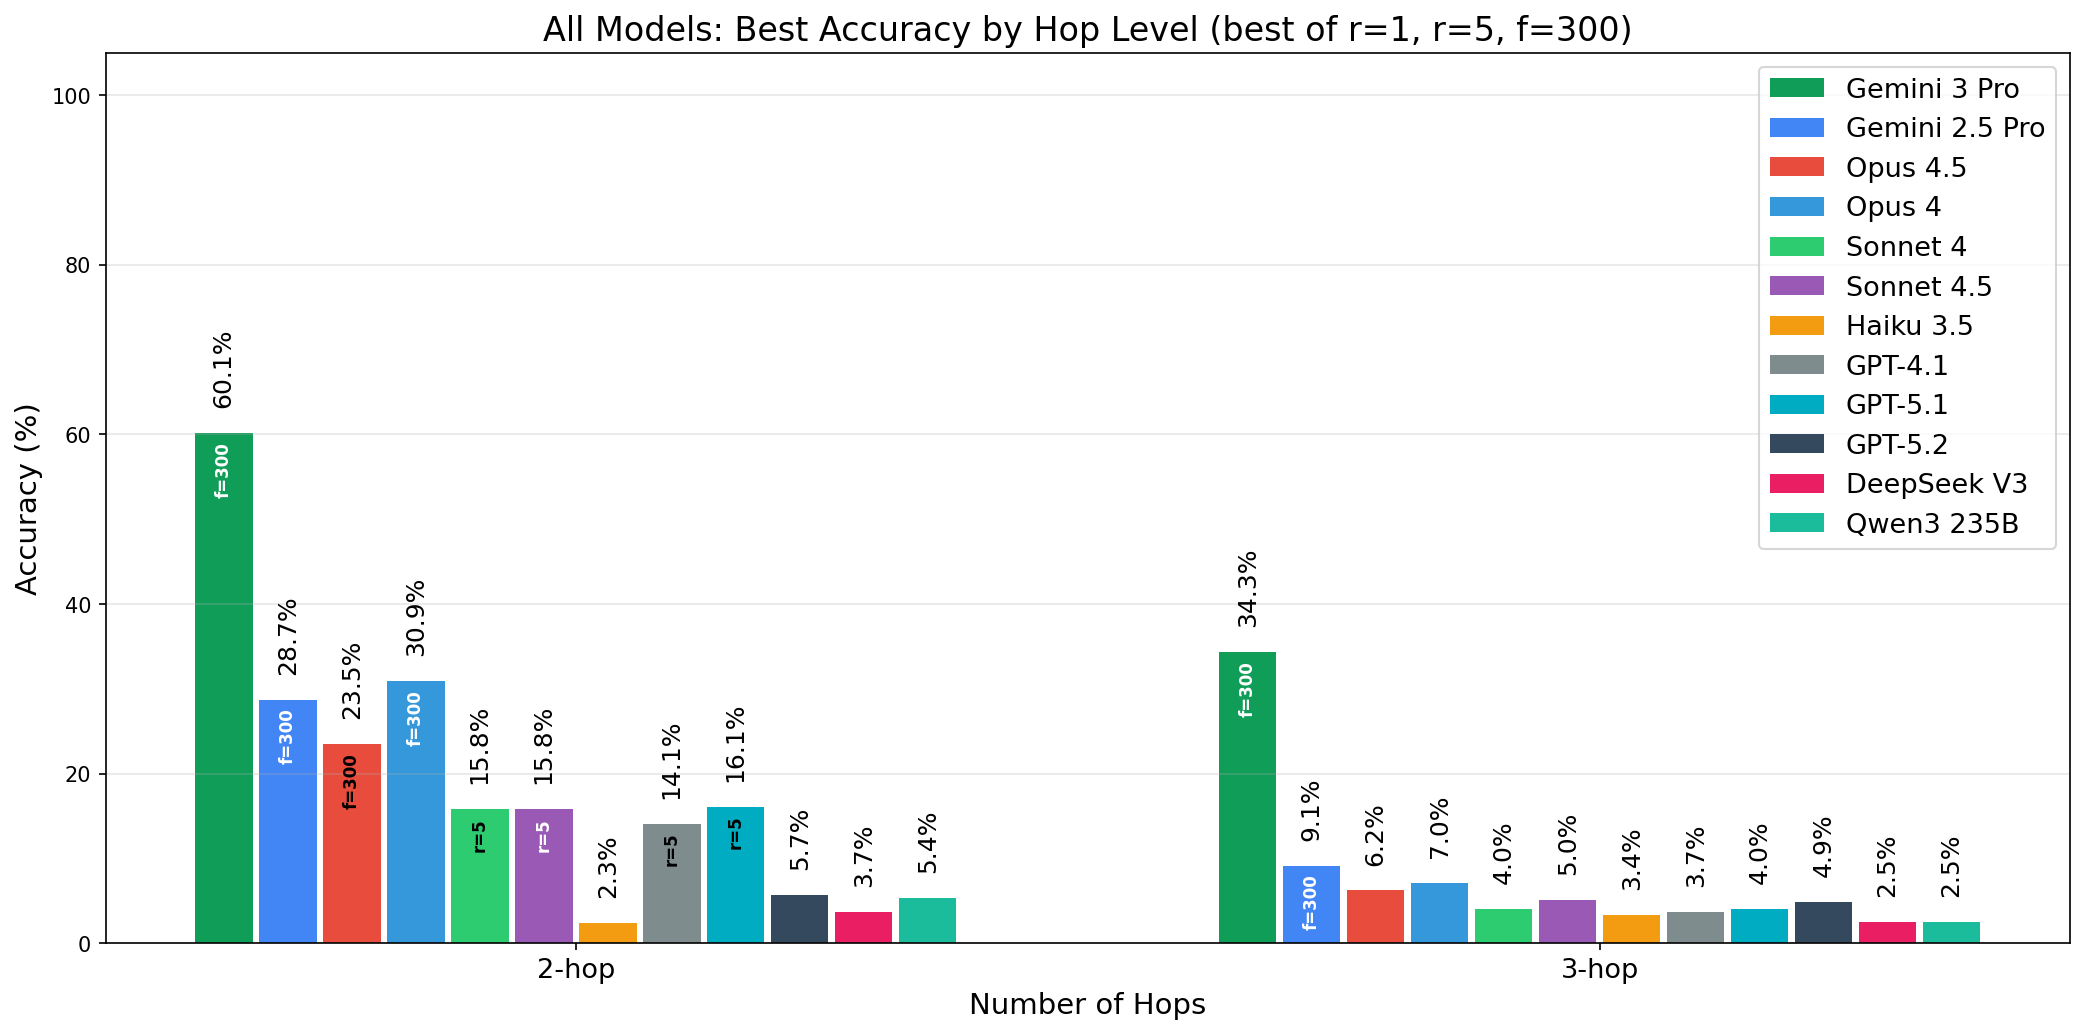
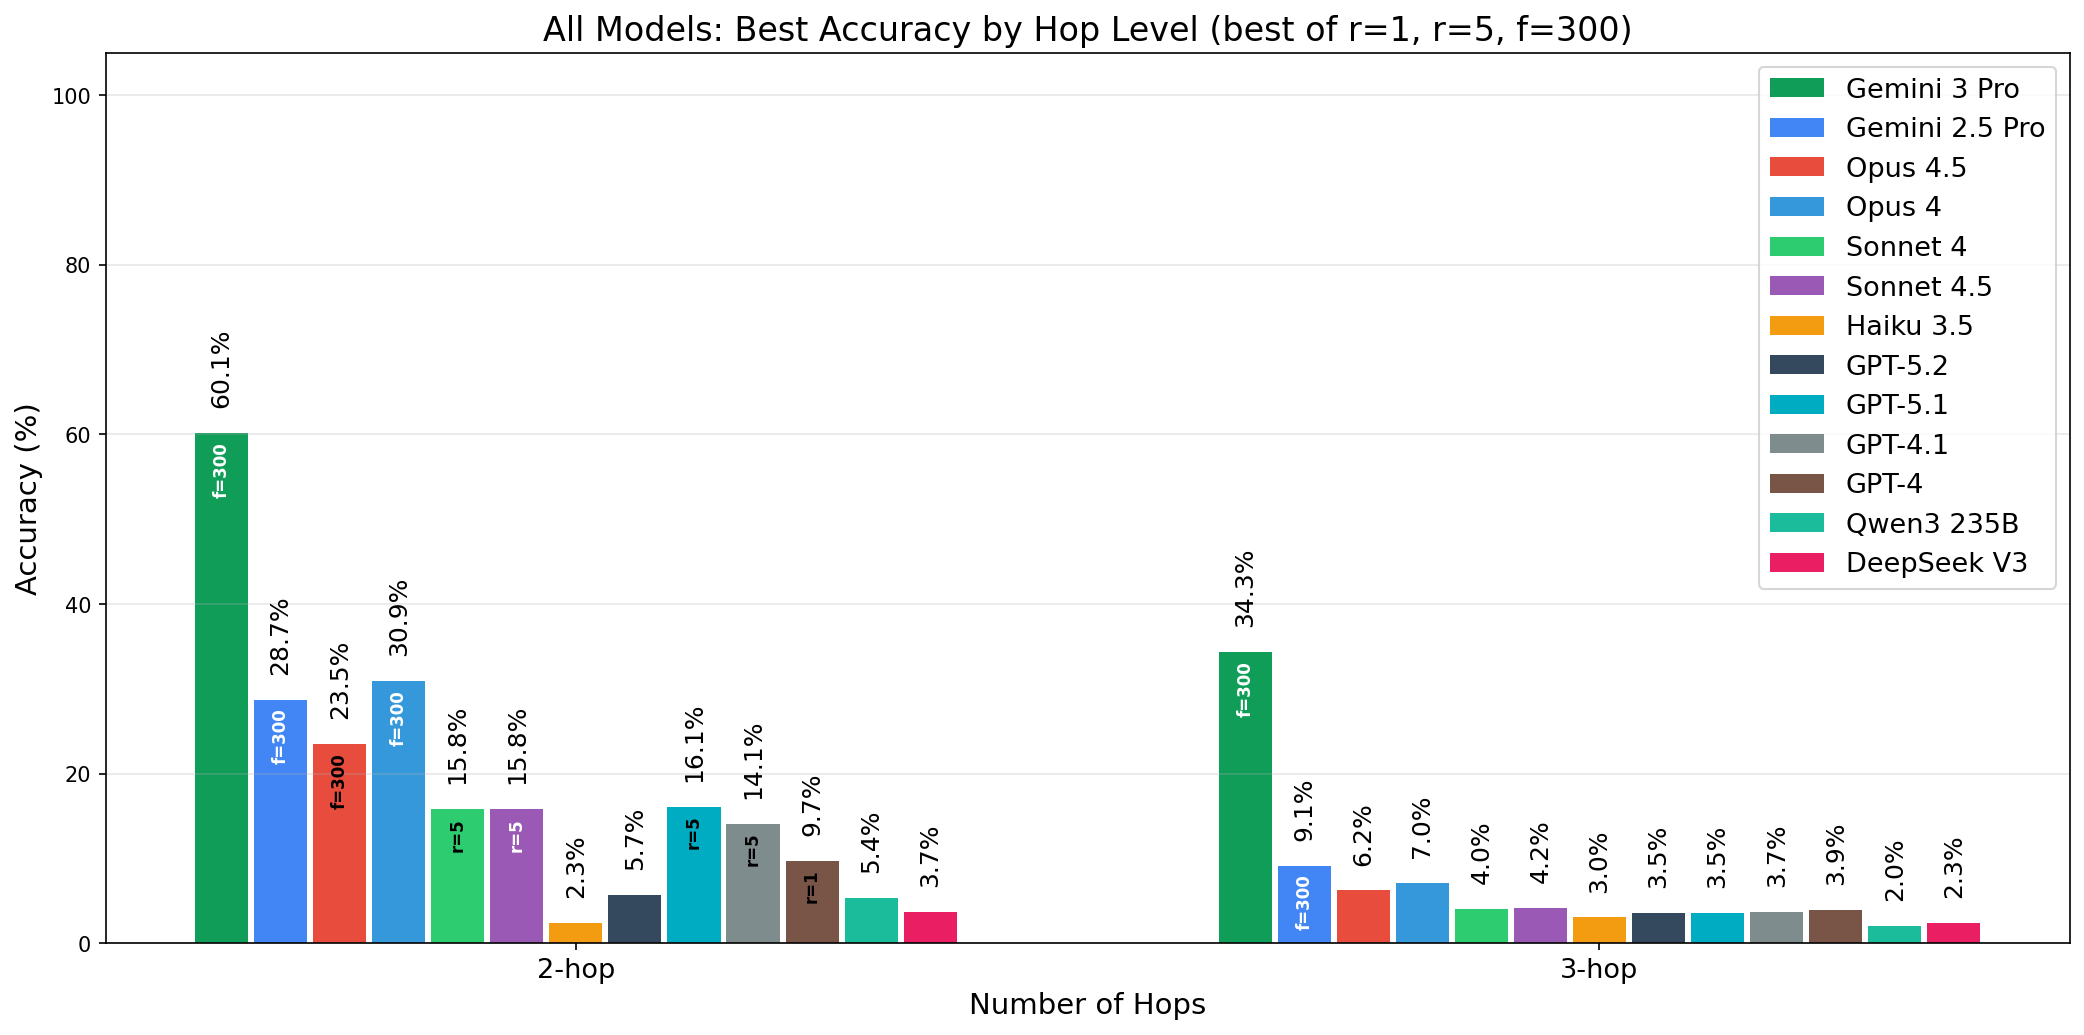
gpt-4

diff --git a/analyze_results.py b/analyze_results.py
@@ -87,10 +87,11 @@ MODEL_NAMES = {
     "claude-sonnet-4-5-20250929": "Sonnet 4.5",
     "claude-3-5-haiku-20241022": "Haiku 3.5",
     "qwen/qwen3-235b-a22b-2507": "Qwen3 235B",
-    "gpt-4.1-2025-04-14": "GPT-4.1",
-    "gpt-5.1-2025-11-13": "GPT-5.1",
-    "gpt-5.2-2025-12-11": "GPT-5.2",
     "deepseek/deepseek-chat-v3-0324": "DeepSeek V3",
+    "gpt-5.2-2025-12-11": "GPT-5.2",
+    "gpt-5.1-2025-11-13": "GPT-5.1",
+    "gpt-4.1-2025-04-14": "GPT-4.1",
+    "gpt-4-0314": "GPT-4",
     "google/gemini-2.5-pro": "Gemini 2.5 Pro",
     "google/gemini-3-pro-preview": "Gemini 3 Pro",
 }
@@ -103,10 +104,11 @@ MODEL_SHORTHAND = {
     "Sonnet 4.5": "sonnet-4-5",
     "Haiku 3.5": "haiku-3-5",
     "Qwen3 235B": "qwen3-235b",
-    "GPT-4.1": "gpt-4.1",
-    "GPT-5.1": "gpt-5.1",
-    "GPT-5.2": "gpt-5.2",
     "DeepSeek V3": "deepseek-v3",
+    "GPT-5.2": "gpt-5.2",
+    "GPT-5.1": "gpt-5.1",
+    "GPT-4.1": "gpt-4.1",
+    "GPT-4": "gpt-4",
     "Gemini 2.5 Pro": "gemini-2.5-pro",
     "Gemini 3 Pro": "gemini-3-pro",
 }
@@ -118,10 +120,11 @@ MODEL_COLORS = {
     "Sonnet 4.5": "#9B59B6",
     "Haiku 3.5": "#F39C12",
     "Qwen3 235B": "#1ABC9C",
-    "GPT-4.1": "#7F8C8D",
-    "GPT-5.1": "#00ACC1",
-    "GPT-5.2": "#34495E",
     "DeepSeek V3": "#E91E63",
+    "GPT-5.2": "#34495E",
+    "GPT-5.1": "#00ACC1",
+    "GPT-4.1": "#7F8C8D",
+    "GPT-4": "#795548",
     "Gemini 2.5 Pro": "#4285F4",
     "Gemini 3 Pro": "#0F9D58",
 }
@@ -1224,7 +1227,7 @@ def plot_mapping_comparison():
 EXTENDED_PLOT_MODEL_ORDER = [
     "Gemini 3 Pro", "Gemini 2.5 Pro",
     "Opus 4.5", "Opus 4", "Sonnet 4", "Sonnet 4.5", "Haiku 3.5",
-    "GPT-4.1", "GPT-5.1", "GPT-5.2", "DeepSeek V3", "Qwen3 235B",
+    "GPT-5.2", "GPT-5.1", "GPT-4.1", "GPT-4", "Qwen3 235B", "DeepSeek V3",
 ]
 
 
@@ -1281,21 +1284,26 @@ def plot_all_models_2_3_hop():
         if not configs:
             continue
 
-        # For each hop, find the best accuracy across configs
+        # Find the best config based on 2-hop accuracy, then use it for both hops
+        best_acc_2hop = -1
+        best_config_name = None
+        best_config_hop_stats = None
+        for config_name, hop_stats in configs:
+            stats_2hop = hop_stats.get("2", {})
+            if stats_2hop:
+                acc = stats_2hop.get("correct", 0) / stats_2hop.get("total", 1)
+                if acc > best_acc_2hop:
+                    best_acc_2hop = acc
+                    best_config_name = config_name
+                    best_config_hop_stats = hop_stats
+
+        # Use the best config's stats for all hops
         best_hop_stats = {}
         best_configs = {}
         for h in hops:
-            best_acc = -1
-            best_config_name = None
-            for config_name, hop_stats in configs:
-                stats_h = hop_stats.get(str(h), {})
-                if stats_h:
-                    acc = stats_h.get("correct", 0) / stats_h.get("total", 1)
-                    if acc > best_acc:
-                        best_acc = acc
-                        best_hop_stats[str(h)] = stats_h
-                        best_config_name = config_name
-            if str(h) not in best_hop_stats:
+            if best_config_hop_stats:
+                best_hop_stats[str(h)] = best_config_hop_stats.get(str(h), {})
+            else:
                 best_hop_stats[str(h)] = {}
             best_configs[h] = best_config_name
 

diff --git a/run_all_evals.py b/run_all_evals.py
@@ -9,7 +9,7 @@ import os
 from datetime import datetime
 
 # Models to evaluate
-MODELS = ["opus-4-5", "opus-4", "sonnet-4", "sonnet-4-5", "haiku-3-5", "qwen3-235b", "gpt-4.1", "gpt-5.1", "gpt-5.2", "deepseek-v3"]
+MODELS = ["opus-4-5", "opus-4", "sonnet-4", "sonnet-4-5", "haiku-3-5", "qwen3-235b", "gpt-4", "gpt-4.1", "gpt-5.1", "gpt-5.2", "deepseek-v3"]
 
 # Repeat conditions
 REPEATS = [None, 5]
